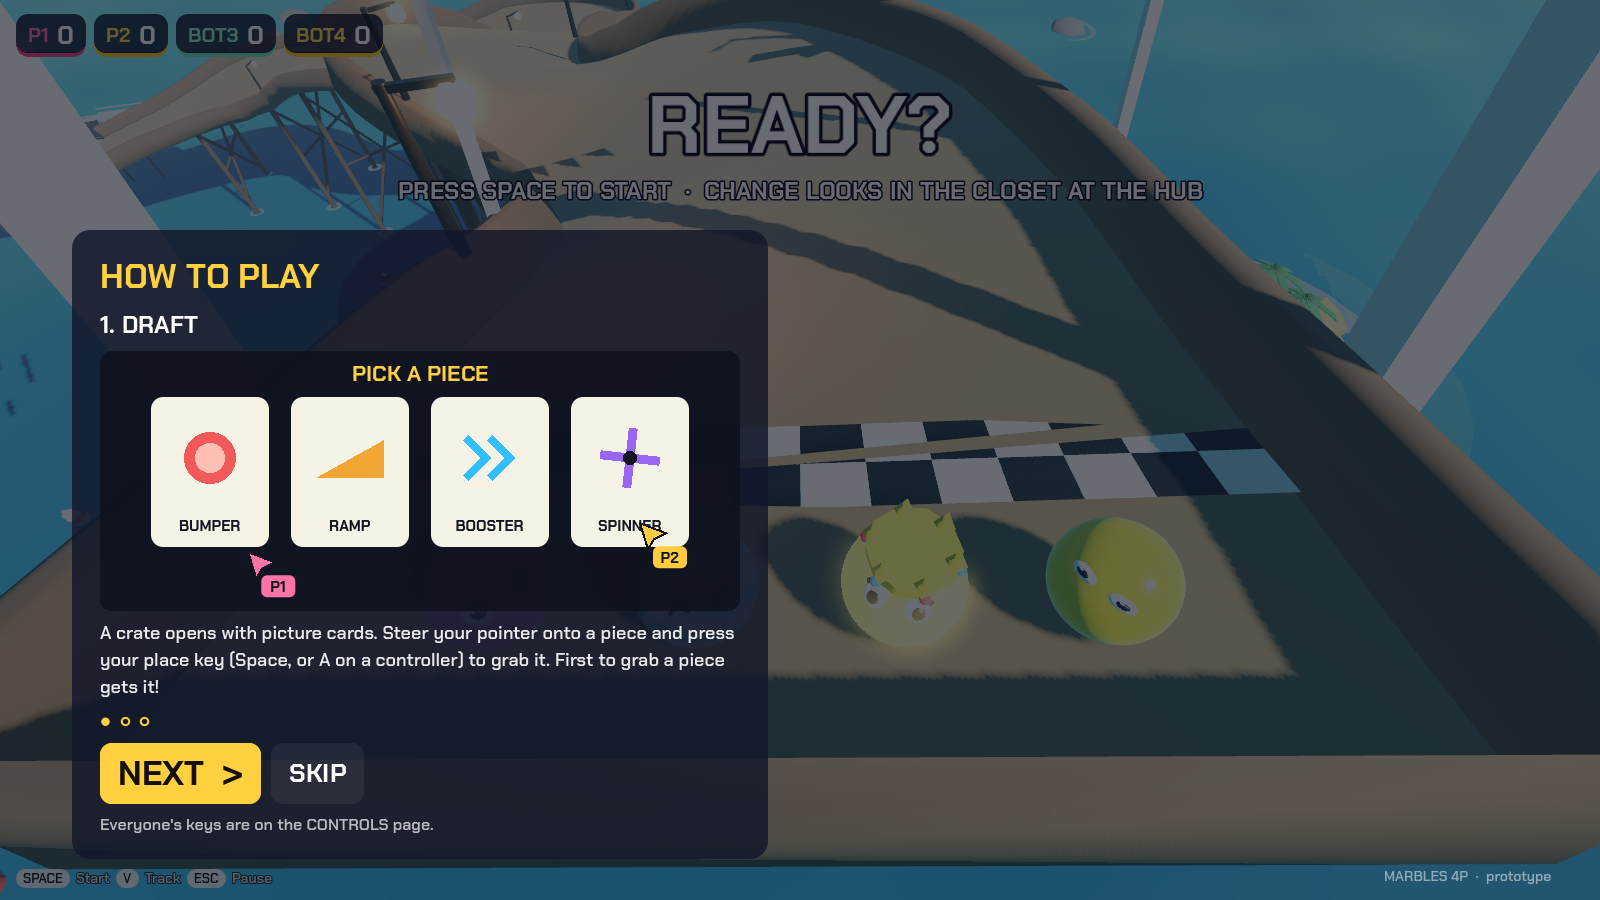
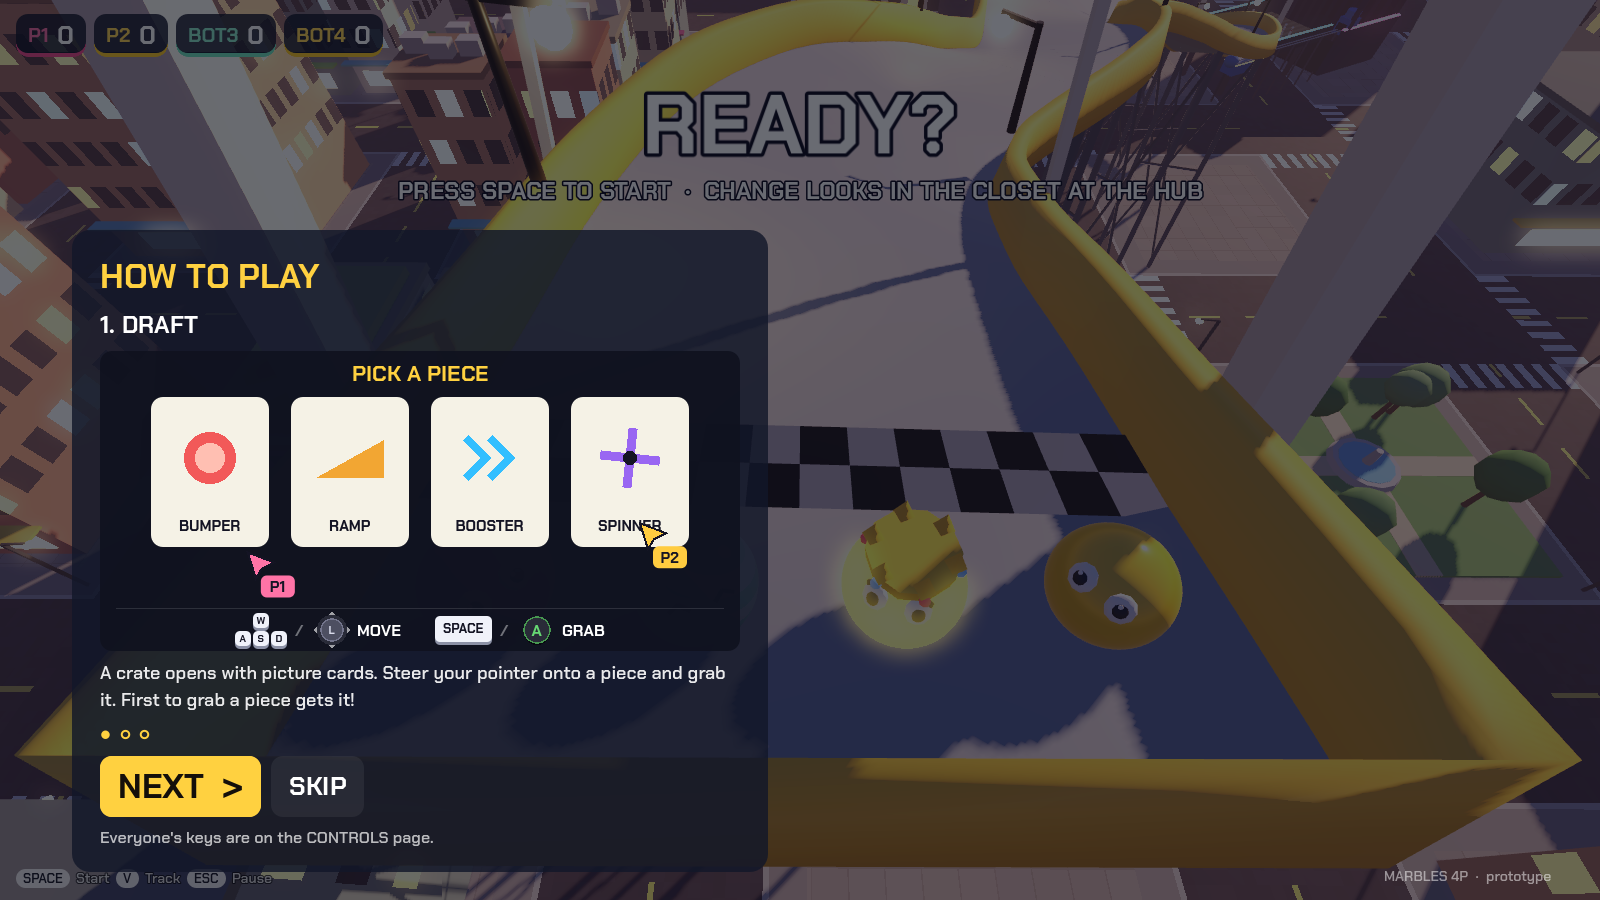
How to play: key and button prompts, winding track pictures
Each step now shows its controls under the picture as keyboard key caps
and controller buttons. The build and roll pictures use a winding lane
like the real random tracks.

Claude-Session: https://claude.ai/code/session_014TBodVeexRhkyu3Fa4gi8h

diff --git a/README.md b/README.md
@@ -29,9 +29,9 @@ During a match, **Esc** opens the pause menu.
 
 ![The How to play guide](docs/how_to_play.png)
 
-The first time anyone starts a match on this computer, a short guide pops up over the READY? screen. It has three little animated pictures, one per step of a frame: **Draft** (grab a piece card with your pointer), **Build** (slide, turn and drop your piece on the lane) and **Roll** (race to the pins). Press **NEXT** (or right) to flip through, **BACK** (or left) to go back, and **GOT IT!** or **SKIP** (or Esc) to start playing. It only pops up once; after that it's always on the title screen under **HOW TO PLAY**. The game remembers you've seen it in `user://settings.cfg`, so deleting that file brings the pop-up back.
+The first time anyone starts a match on this computer, a short guide pops up over the READY? screen. It has three little animated pictures, one per step of a frame: **Draft** (grab a piece card with your pointer), **Build** (slide, turn and drop your piece on a winding lane) and **Roll** (race down the twisty lane to the pins). Under each picture are the buttons for that step, drawn like real keyboard keys and controller buttons (for example the WASD keys or the left stick to move, Space or A to grab). Press **NEXT** (or right) to flip through, **BACK** (or left) to go back, and **GOT IT!** or **SKIP** (or Esc) to start playing. It only pops up once; after that it's always on the title screen under **HOW TO PLAY**. The game remembers you've seen it in `user://settings.cfg`, so deleting that file brings the pop-up back.
 
-The pictures are drawn in code in `scripts/how_to_play.gd`, and the words for each step are in the `STEPS` list at the top of that file if you want to change them.
+The pictures are drawn in code in `scripts/how_to_play.gd`, and the words and button prompts for each step are in the `STEPS` list at the top of that file if you want to change them.
 
 ### The Hub
 
